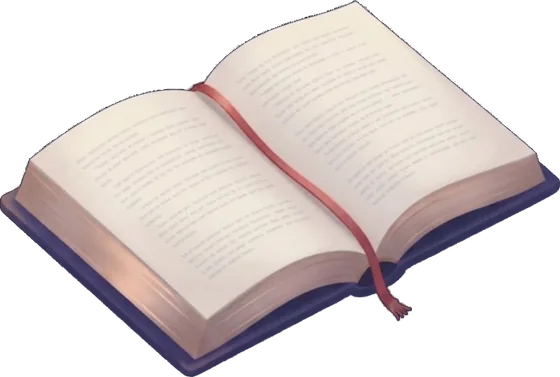
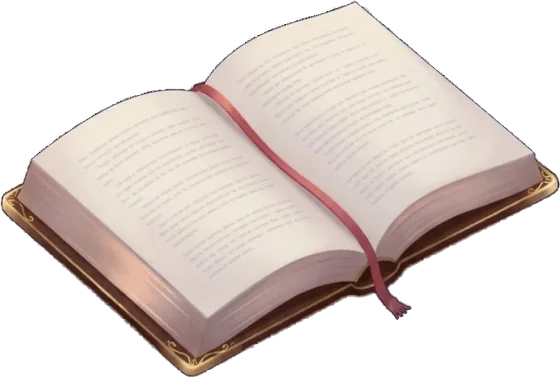
机の開いた本を、革の表紙・金の縁取りの絵に差し替え
Claude-Session: https://claude.ai/code/session_0116inbLhgYz72u1gz15Rogf

diff --git a/docs/js/app.js b/docs/js/app.js
@@ -39,7 +39,7 @@ const K = {
   key: 'app.key', name: 'app.name', seq: 'app.seq', salt: 'app.salt',
   auto: 'app.auto', expire: 'app.expire', city: 'app.city', card: 'app.card', theme: 'app.theme', patSeen: 'app.patSeen', patShown: 'app.patShown', bd: 'app.bd', talk: 'app.talk', rcpt: 'app.rcpt', seen: 'app.seen', role: 'app.role', moonSeen: 'app.moonSeen', moodAsk: 'app.moodAsk', sayLast: 'app.sayLast', sayMorning: 'app.sayMorning', fullSeen: 'app.fullSeen', roomLast: 'app.roomLast', diaryAt: 'app.diaryAt', opens: 'app.opens', tagHide: 'app.tagHide',
 };
-const VERSION = '2026.10.25-86';
+const VERSION = '2026.10.25-87';
 
 // 調子(新月 → 満月)と気分のタグ
 const LEVELS = [['しんどい', 1], ['いまいち', 2], ['ふつう', 3], ['まあまあ', 4], ['元気', 5]];

diff --git a/docs/sw.js b/docs/sw.js
@@ -1,5 +1,5 @@
 // 画面のファイルだけを保存する。通信(天気・Firebase)には触れない。
-const CACHE = 'shell-v74';
+const CACHE = 'shell-v75';
 const FILES = [
   './', 'index.html', 'css/style.css', 'css/moon.css', 'css/shelf.css', 'css/ticket.css', 'css/diary.css', 'manifest.webmanifest',
   'js/app.js', 'js/crypto.js', 'js/cities.js', 'js/weather.js', 'js/emoji.js', 'js/cycle.js', 'js/card.js', 'js/share.js', 'js/qa.js', 'js/dates.js', 'js/export.js', 'js/news.js', 'js/moon.js', 'js/moonlogic.js', 'js/demo-boot.js', 'js/chara.js', 'js/similar.js', 'js/hitorigoto.js', 'js/shelf.js', 'js/ticket.js', 'js/diary.js', 'js/room.js', 'js/config.js', 'js/store.js',
